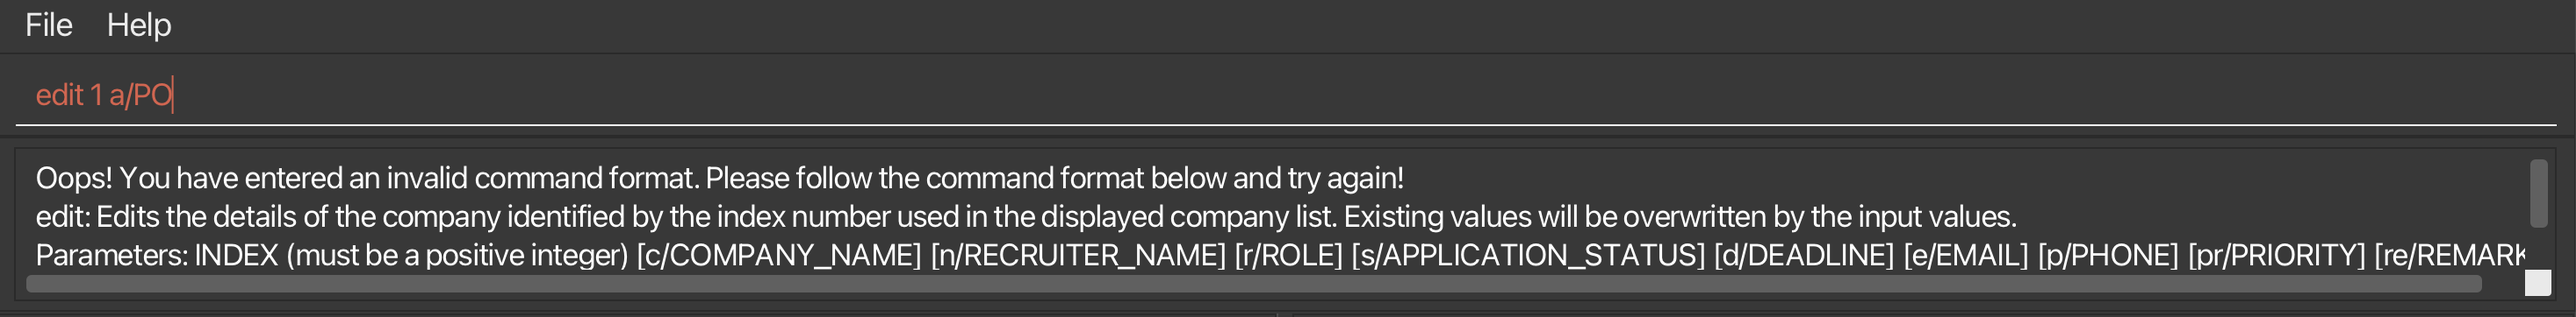
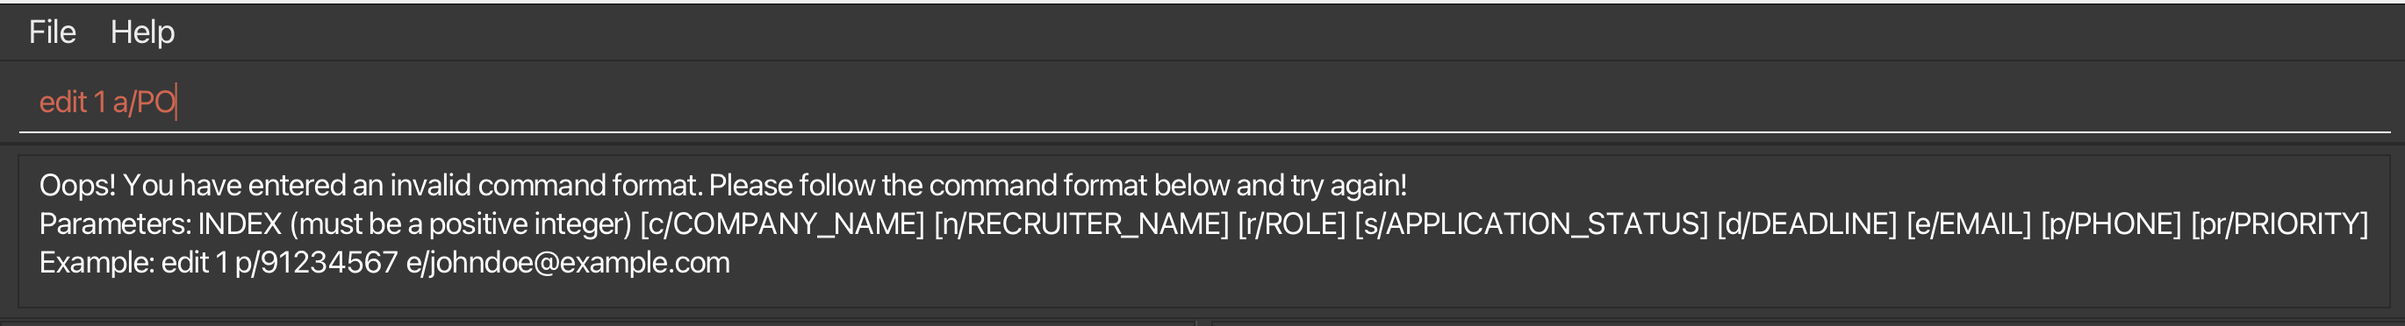
Update UG DG images

diff --git a/src/main/java/seedu/address/logic/commands/EditCommand.java b/src/main/java/seedu/address/logic/commands/EditCommand.java
@@ -47,7 +47,7 @@ public class EditCommand extends Command {
             + "[" + PREFIX_DEADLINE + "DEADLINE] "
             + "[" + PREFIX_EMAIL + "EMAIL] "
             + "[" + PREFIX_PHONE + "PHONE] "
-            + "[" + PREFIX_PRIORITY + "PRIORITY]\n "
+            + "[" + PREFIX_PRIORITY + "PRIORITY]\n"
             + "Example: " + COMMAND_WORD + " 1 "
             + PREFIX_PHONE + "91234567 "
             + PREFIX_EMAIL + "johndoe@example.com";

diff --git a/docs/UserGuide.md b/docs/UserGuide.md
@@ -356,6 +356,12 @@ you also want to note down that this internship requires experience in Java.
 3. You can view the remark the 1st company as shown below.
 ![RemarkDemo2.png](images/remark-command/RemarkDemo2.png)
 
+4. Go ahead and add remarks for more companies on your own!
+
+   **More examples:**
+    - remark 3 re/interview went well!
+    - remark 4 re/$800 per month
+
 **Possible Error:**
 
 If you enter an **empty remark**,
@@ -407,13 +413,20 @@ use the `edit` command to input the accurate details._
 
 **Examples:** 
 
-1.You received an email from Microsoft to interview for a Frontend Developer role instead, which is different from the Software Engineer role you applied for.
+1. You received an email from Microsoft to interview for a Frontend Developer role instead, which is different from the Software Engineer role you applied for.
 To edit the company's information, type `edit 2 s/PI r/Frontend Developer`
 
 ![EditDemo1.png](images/edit-command/EditDemo1.png)
-2.The status and role of the 2nd company in the list is edited to be Pending Interview and Frontend Developer respectively.
+2. The status and role of the 2nd company in the list is edited to be Pending Interview and Frontend Developer respectively.
 
 ![EditDemo2.png](images/edit-command/EditDemo2.png)
+
+3. Go ahead and edit more companies on your own! 
+
+    **More examples:**
+    - edit 3 d/11-09-2025 pr/LOW
+    - edit 1 n/Amy Tan e/amytan@gmail.com
+
 
 **Possible Error:**
 

diff --git a/docs/DeveloperGuide.md b/docs/DeveloperGuide.md
@@ -136,7 +136,7 @@ How the parsing works:
 
 **API** : [`Model.java`](https://github.com/se-edu/addressbook-level3/tree/master/src/main/java/seedu/address/model/Model.java)
 
-<img src="images/ModelClassDiagram.png" width="450" />
+<img src="images/ModelClassDiagram.png" width="500" />
 
 The `Model` component,
 
